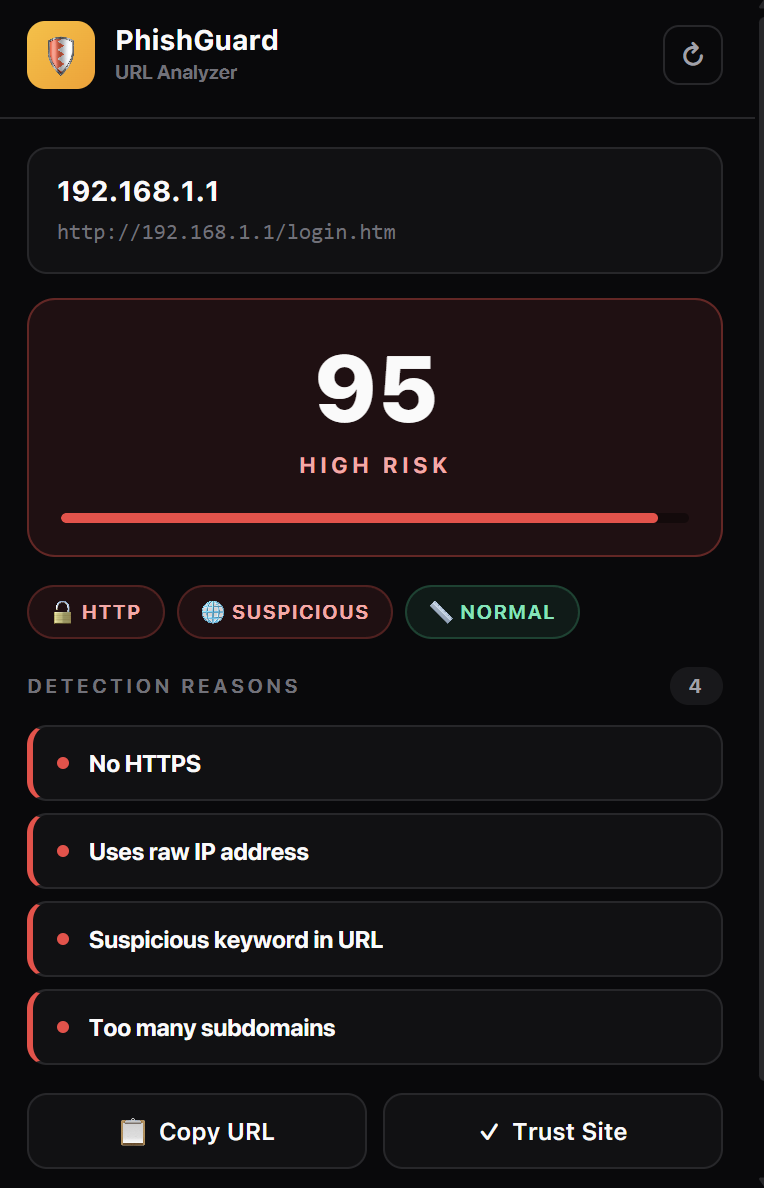
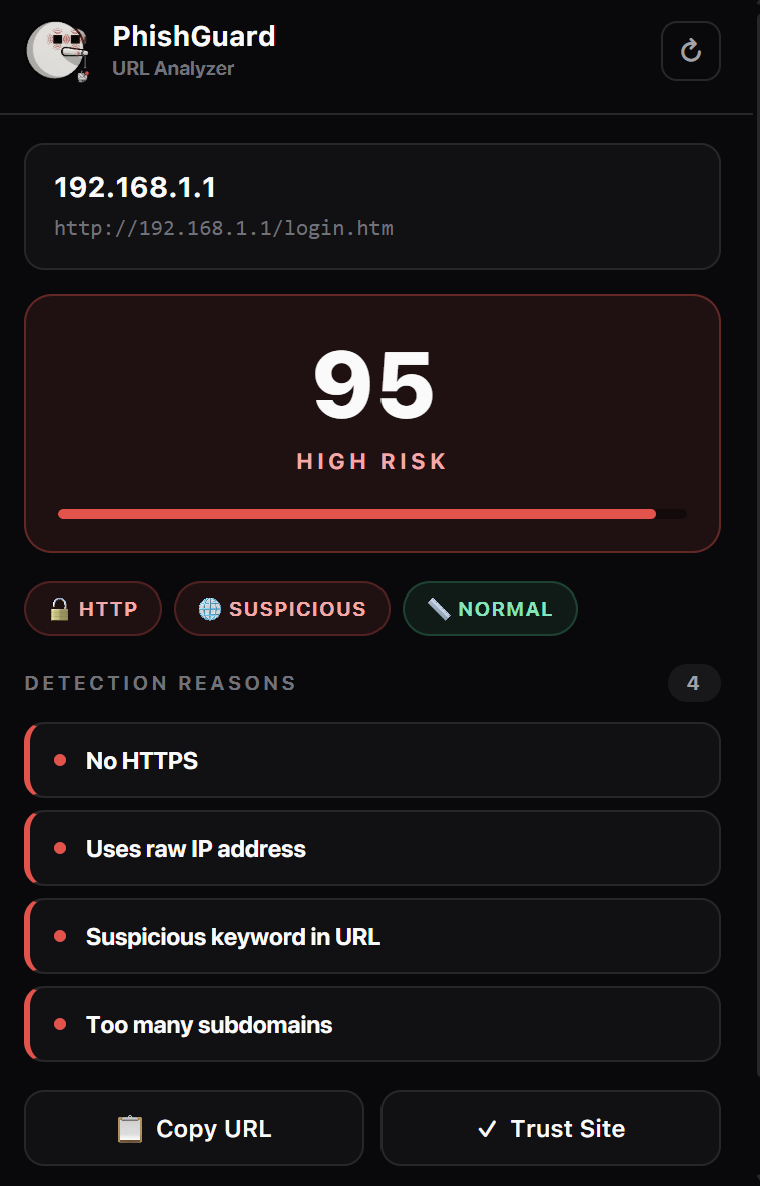
describe what you changed

diff --git a/dashboard/style.css b/dashboard/style.css
@@ -122,13 +122,21 @@ button { cursor: pointer; font-family: inherit; }
 .brand { display: flex; align-items: center; gap: 14px; }
 
 .brand .logo {
-  width: 44px; height: 44px;
-  background: linear-gradient(135deg, var(--accent), var(--accent-dark));
+  width: 44px;
+  height: 44px;
   border-radius: 12px;
+  overflow: hidden;
   display: flex;
   align-items: center;
   justify-content: center;
-  font-size: 22px;
+  flex-shrink: 0;
+}
+
+.brand .logo img {
+  width: 100%;
+  height: 100%;
+  object-fit: contain;
+  display: block;
 }
 
 .brand h1 {
@@ -631,4 +639,11 @@ td.date {
   color: var(--muted-2);
   flex-wrap: wrap;
   gap: 10px;
+}
+.login-logo {
+  width: 32px;
+  height: 32px;
+  object-fit: contain;
+  vertical-align: middle;
+  margin-right: 6px;
 }

diff --git a/extension/popup.css b/extension/popup.css
@@ -47,12 +47,19 @@ body {
 .brand .logo {
   width: 34px;
   height: 34px;
-  background: linear-gradient(135deg, var(--accent), var(--accent-dark));
   border-radius: 9px;
+  overflow: hidden;
   display: flex;
   align-items: center;
   justify-content: center;
-  font-size: 17px;
+  flex-shrink: 0;
+}
+
+.brand .logo img {
+  width: 100%;
+  height: 100%;
+  object-fit: contain;
+  display: block;
 }
 
 .brand .title {

diff --git a/extension/popup.html b/extension/popup.html
@@ -7,7 +7,7 @@
 <body>
   <header class="header">
     <div class="brand">
-      <div class="logo">🛡</div>
+      <div class="logo"><img src="icons/icon128.png" alt="PhishGuard" /></div>
       <div>
         <div class="title">PhishGuard</div>
         <div class="subtitle">URL Analyzer</div>

diff --git a/dashboard/dashboard.php b/dashboard/dashboard.php
@@ -55,7 +55,7 @@ $lowPct    = round((int)$stats['low']    / $total * 100);
     <!-- Topbar -->
     <header class="topbar">
       <div class="brand">
-        <div class="logo">🛡</div>
+        <div class="logo"><img src="../extension/icons/icon128.png" alt="PhishGuard" /></div>
         <div>
           <h1>PhishGuard</h1>
           <p class="subtitle">Security Overview</p>

diff --git a/dashboard/index.php b/dashboard/index.php
@@ -45,7 +45,7 @@ if ($_SERVER['REQUEST_METHOD'] === 'POST') {
 <body>
   <div class="login-wrap">
     <form class="login-card" method="POST">
-      <h1>🛡 PhishGuard</h1>
+      <h1><img src="../extension/icons/icon128.png" alt="" class="login-logo" /> PhishGuard</h1>
       <p>Admin dashboard login</p>
 
       <?php if ($error): ?>
